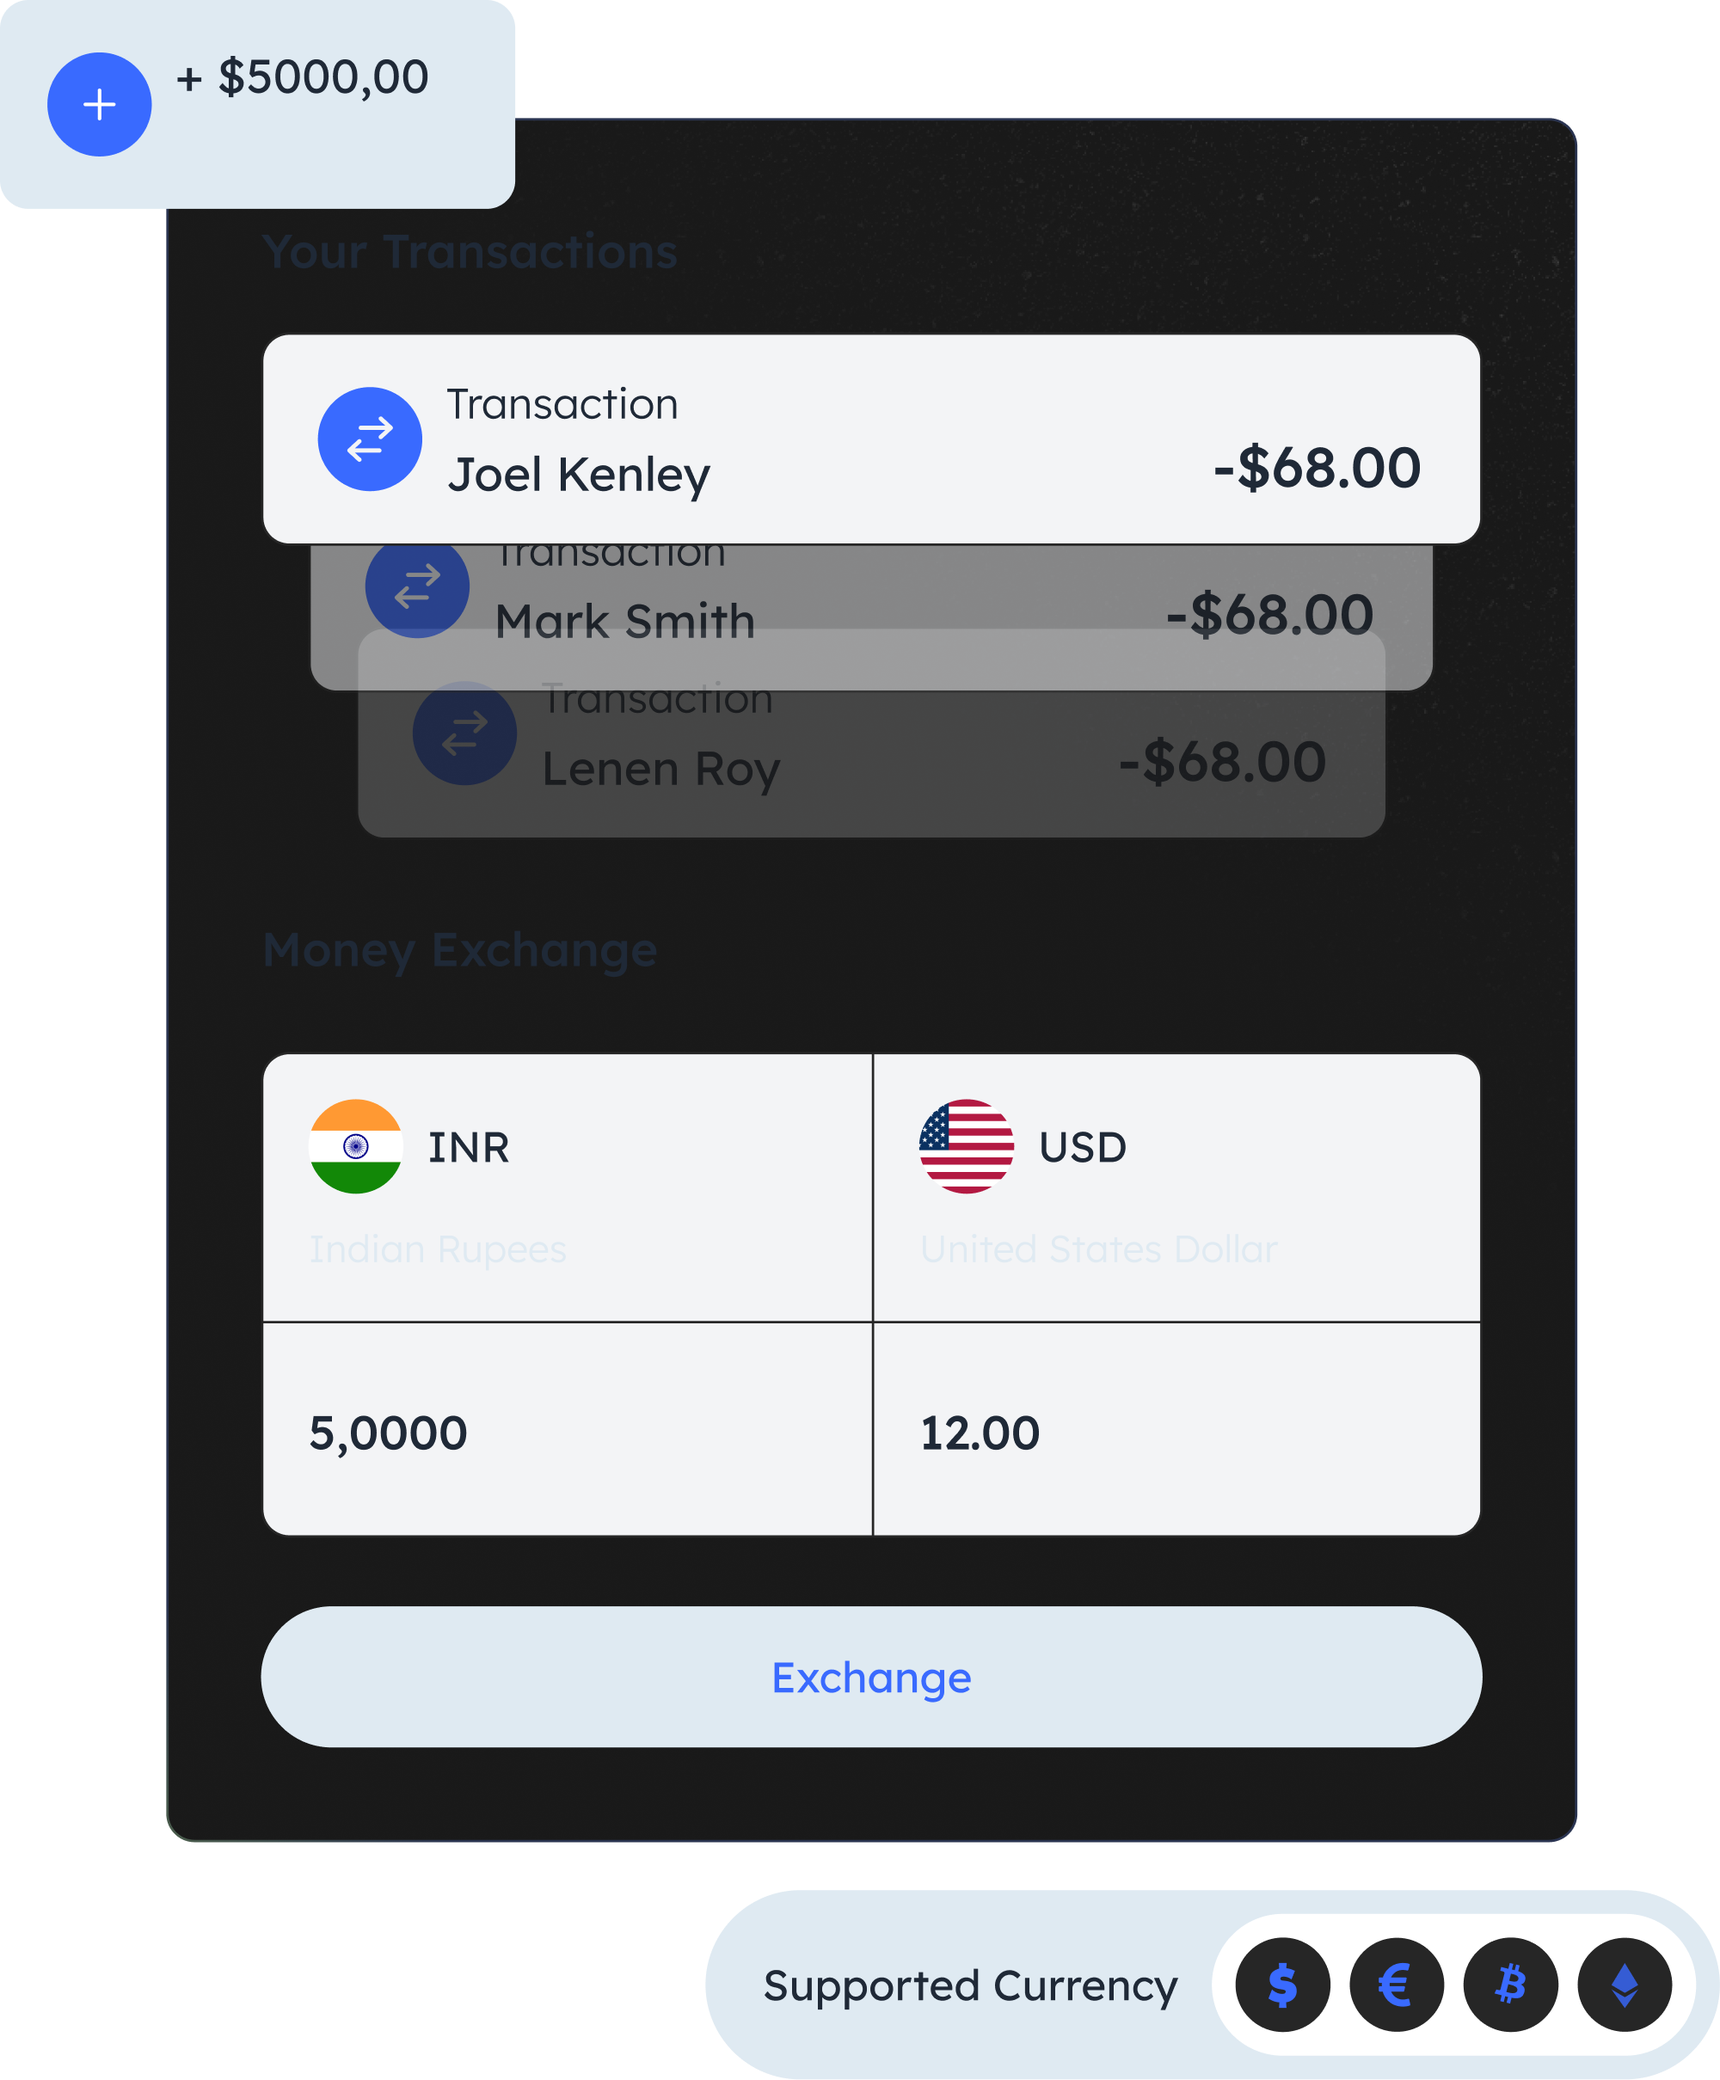
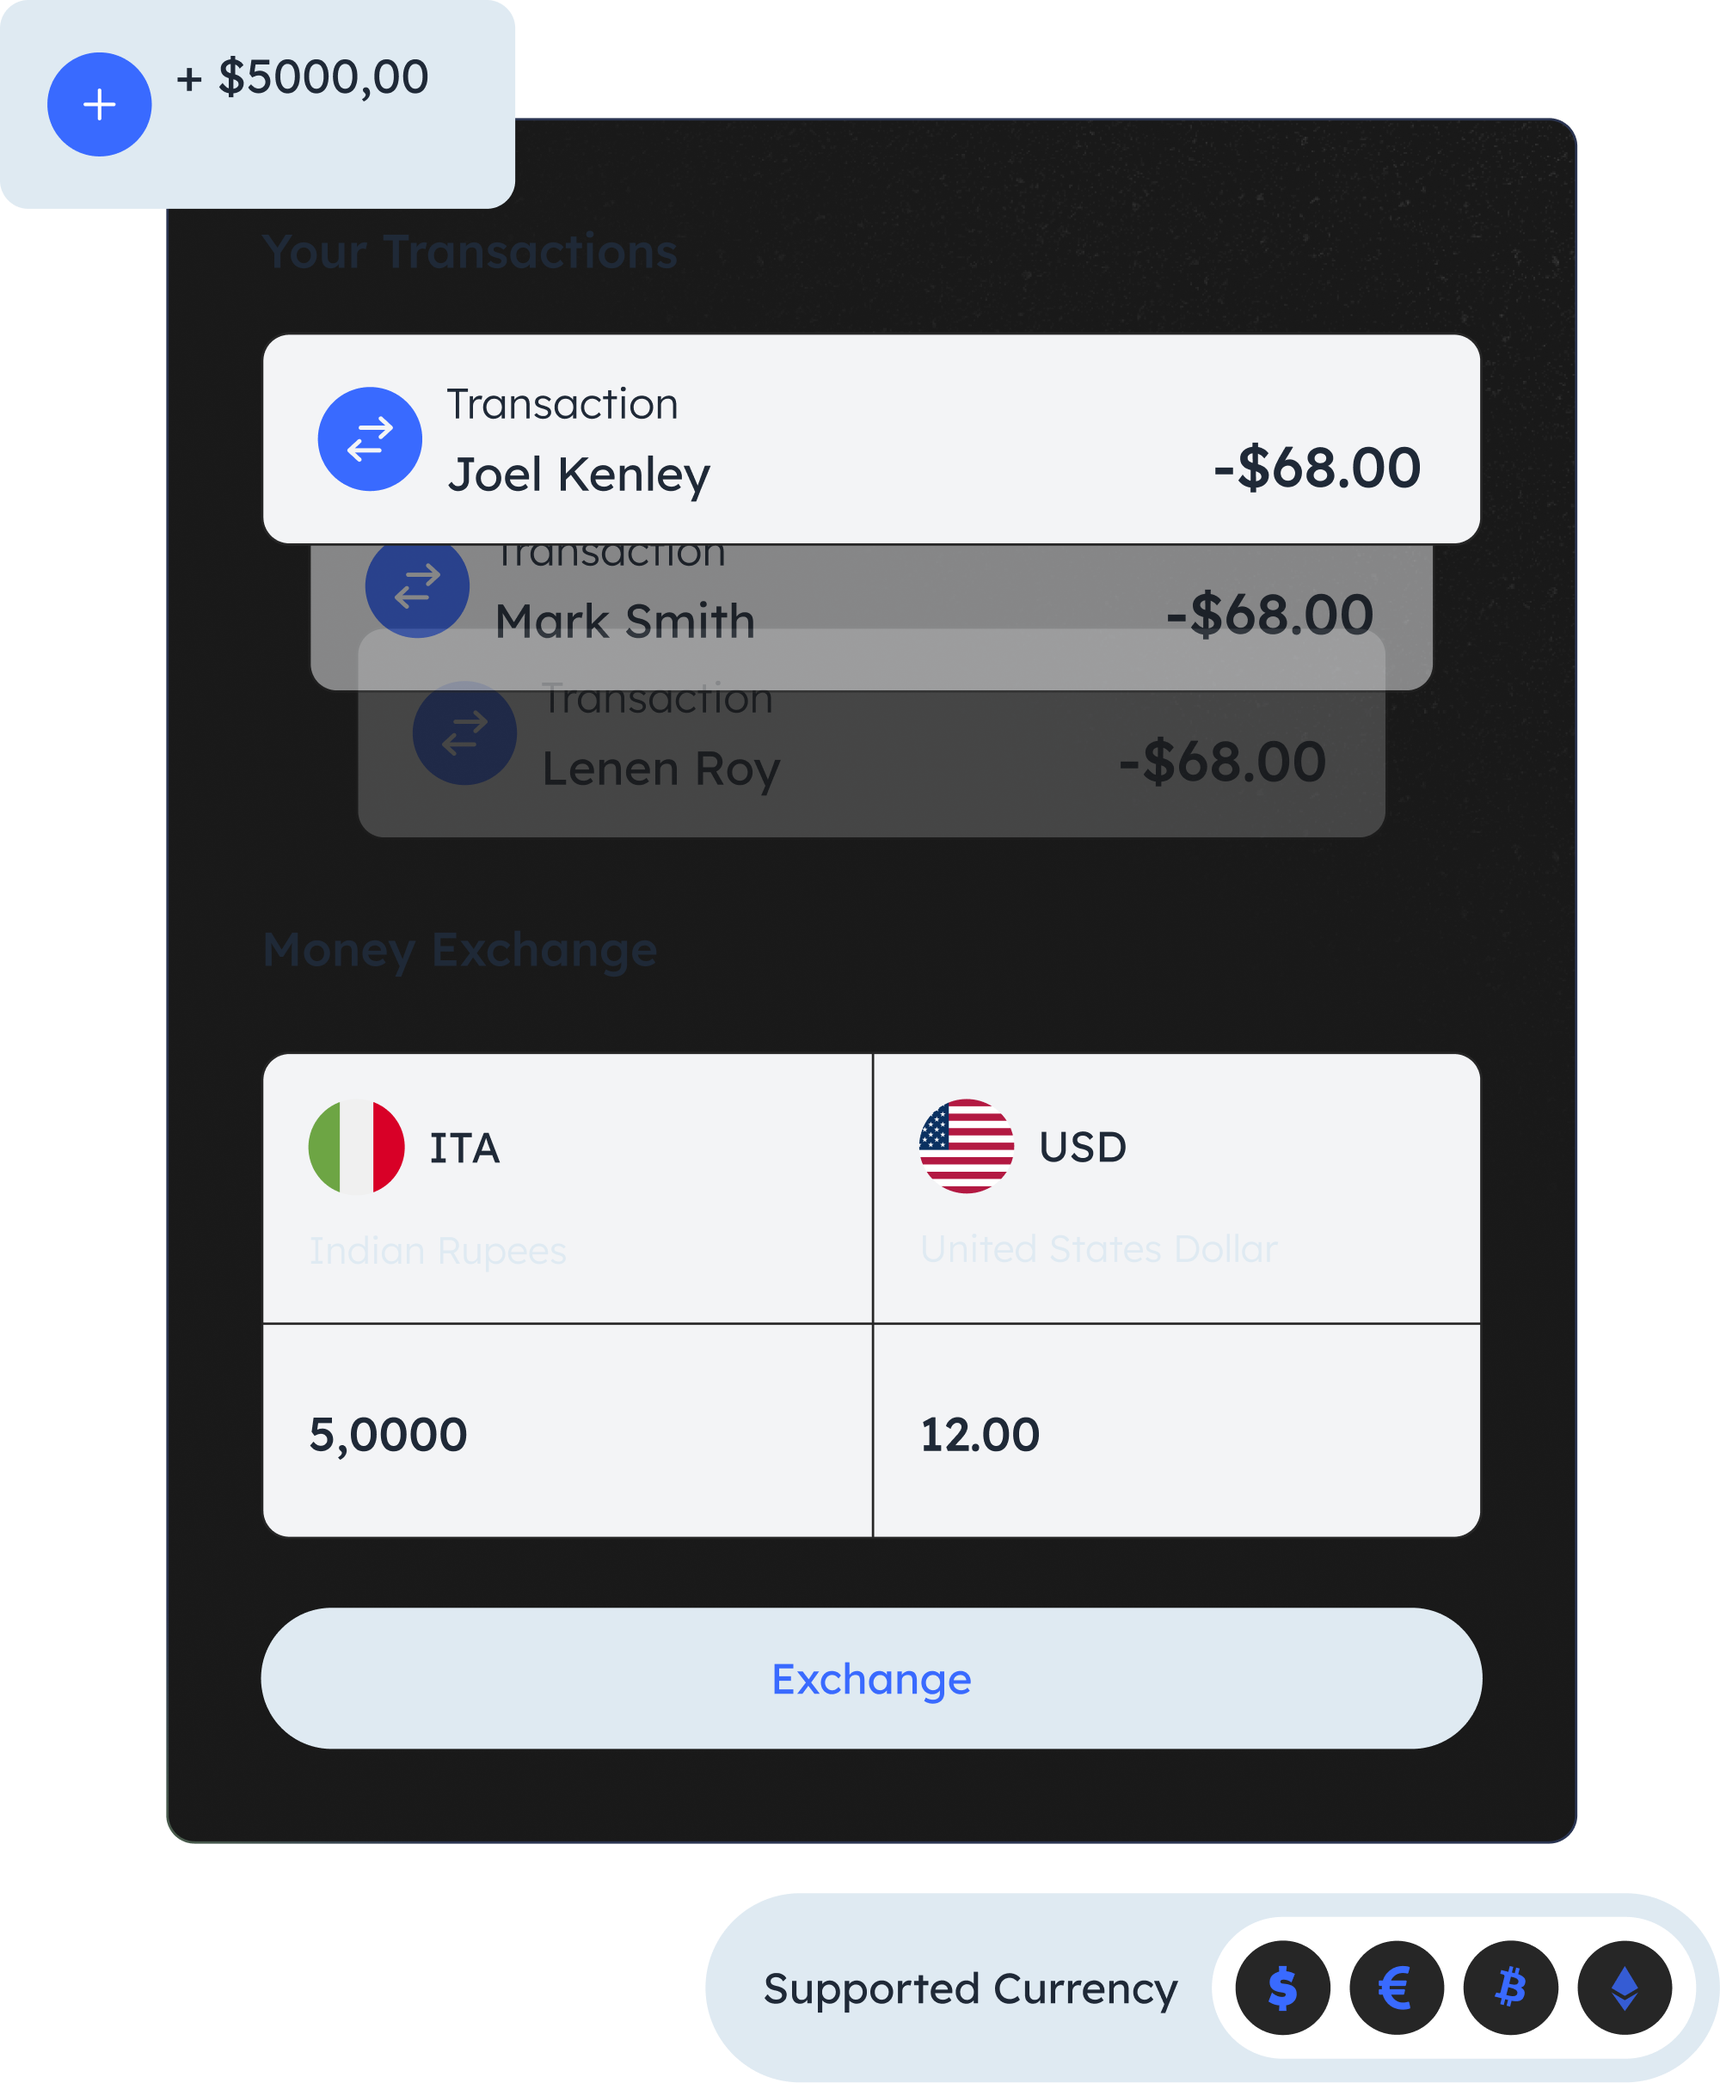
latest changes

Changed region(s): [[0.155, 0.5271, 0.31, 0.5891], [0.527, 0.5271, 0.589, 0.5891], [0.62, 0.5271, 0.651, 0.5581]]

diff --git a/src/components/sections/Products.tsx b/src/components/sections/Products.tsx
@@ -1,8 +1,11 @@
+"use client";
+
+import { useState } from "react";
 import { Button } from "@/components/ui/button";
 import { Briefcase, PiggyBank, Wallet } from "lucide-react";
 
-const Products = () => {
-  const products = [
+const productsData = {
+  Individuals: [
     {
       icon: Wallet,
       title: "Checking Accounts",
@@ -13,12 +16,20 @@ const Products = () => {
       title: "Savings Accounts",
       desc: "Grow your money faster with high-yield savings options and automatic tools.",
     },
+  ],
+  Businesses: [
     {
       icon: Briefcase,
       title: "Business Banking",
       desc: "Scalable solutions for businesses of all sizes to manage finances efficiently.",
     },
-  ];
+  ],
+};
+
+type ProductTab = keyof typeof productsData;
+
+const Products = () => {
+  const [activeTab, setActiveTab] = useState<ProductTab>("Individuals");
 
   return (
     <section className="container mx-auto py-16 md:py-24">
@@ -31,22 +42,40 @@ const Products = () => {
             Discover a range of financial products tailored to your needs.
           </p>
         </div>
-        {/* Placeholder for the Toggle */}
+
+        {/* Toggle */}
         <div className="bg-white p-1 rounded-full border flex">
           <Button
+            type="button"
             variant="ghost"
-            className="rounded-full bg-brand-accent text-white"
+            onClick={() => setActiveTab("Individuals")}
+            className={`rounded-full px-6 ${
+              activeTab === "Individuals"
+                ? "bg-brand-accent text-white"
+                : "text-gray-600"
+            }`}
           >
             For Individuals
           </Button>
-          <Button variant="ghost" className="rounded-full">
+
+          <Button
+            type="button"
+            variant="ghost"
+            onClick={() => setActiveTab("Businesses")}
+            className={`rounded-full px-6 ${
+              activeTab === "Businesses"
+                ? "bg-brand-accent text-white"
+                : "text-gray-600"
+            }`}
+          >
             For Businesses
           </Button>
         </div>
       </div>
 
+      {/* Products Grid */}
       <div className="grid grid-cols-1 md:grid-cols-3 gap-8">
-        {products.map((item, index) => (
+        {productsData[activeTab].map((item, index) => (
           <div
             key={index}
             className="bg-white p-8 rounded-3xl shadow-sm border border-gray-100 flex flex-col items-center text-center space-y-4"

diff --git a/src/components/sections/CTABanner.tsx b/src/components/sections/CTABanner.tsx
@@ -1,10 +1,19 @@
 import { Button } from "@/components/ui/button";
+import Link from "next/link"; // Import Link
 
 const CTABanner = () => {
   return (
     <section className="py-20 container mx-auto px-4">
-<div className="relative bg-[url('/images/cta.png')] bg-cover bg-center bg-no-repeat rounded-[2.5rem] p-8 md:p-16 overflow-hidden flex flex-col lg:flex-row items-center justify-between gap-8 lg:gap-16 text-center lg:text-left">        {/* --- Decorative Dot Pattern (Top Left) --- */}
-        <div className="absolute top-0 left-0 p-4 sm:p-6 opacity-30">
+      {/* Updated container classes:
+        1. Removed direct bg-image classes.
+        2. Added pseudo-element (before:) classes to handle background image and blur.
+           - before:blur-[2px] provides the slight blur.
+           - before:scale-105 ensures blurred edges are clipped cleanly by overflow-hidden.
+           - before:-z-10 places it behind the content.
+      */}
+      <div className="relative rounded-[2.5rem] p-8 md:p-16 overflow-hidden flex flex-col lg:flex-row items-center justify-between gap-8 lg:gap-16 text-center lg:text-left before:absolute before:inset-0 before:-z-10 before:bg-[url('/images/cta.png')] before:bg-cover before:bg-center before:bg-no-repeat before:blur-[2px] before:scale-105">
+
+        <div className="absolute top-0 left-0 p-4 sm:p-6 opacity-30 z-0">
           <svg
             width="100"
             height="100"
@@ -36,6 +45,7 @@ const CTABanner = () => {
         </div>
 
         {/* --- Text Content --- */}
+        {/* z-10 ensures text sits above the blurred background */}
         <div className="relative z-10 max-w-2xl space-y-4">
           <h2 className="text-3xl md:text-5xl font-bold text-white">
             Start your financial journey with{" "}
@@ -48,11 +58,13 @@ const CTABanner = () => {
           </p>
         </div>
 
-        {/* --- Action Button --- */}
+
         <div className="relative z-10 shrink-0">
-          <Button className="bg-brand-accent hover:bg-blue-600 text-white rounded-full px-8 py-6 text-lg shadow-lg transition-transform hover:scale-105">
-            Open Account
-          </Button>
+          <Link href="/login">
+            <Button className="bg-brand-accent hover:bg-blue-600 text-white rounded-full px-8 py-6 text-lg shadow-lg transition-transform hover:scale-105">
+              Open Account
+            </Button>
+          </Link>
         </div>
       </div>
     </section>

diff --git a/src/components/layout/Footer.tsx b/src/components/layout/Footer.tsx
@@ -1,5 +1,7 @@
 import Link from "next/link";
-import { Facebook, Linkedin, Mail, MapPin, Phone, Twitter } from "lucide-react";
+import { Facebook, Linkedin, Mail, Twitter } from "lucide-react";
+import Image from "next/image";
+
 
 const Footer = () => {
   const socialLinks = [
@@ -16,7 +18,7 @@ const Footer = () => {
   ];
 
   const contactInfo = [
-    { icon: Mail, text: "hello@gmail.com" },
+    { icon: Mail, text: "Use the chatbot on the screen" },
     // { icon: Phone, text: "+234 6677 9999" },
     // { icon: MapPin, text: "Somewhere in the World" },
   ];
@@ -25,18 +27,15 @@ const Footer = () => {
     <footer className="bg-brand-light pt-20 pb-10">
       <div className="container mx-auto px-4 flex flex-col items-center">
         {/* --- Logo Section --- */}
-        <div className="flex items-center gap-2 mb-8">
-          <div className="bg-brand-accent text-white p-1.5 rounded-sm flex items-center justify-center">
-            {/* CSS Logo Representation */}
-            <div className="w-5 h-5 relative">
-              <div className="absolute top-0 left-0 w-2.5 h-2.5 border-t-2 border-l-2 border-white"></div>
-              <div className="absolute bottom-0 right-0 w-2.5 h-2.5 border-b-2 border-r-2 border-white"></div>
-              <div className="absolute inset-0 m-auto w-1.5 h-1.5 bg-white rotate-45"></div>
-            </div>
-          </div>
-          <span className="font-bold text-xl text-brand-primary tracking-tight">
-            Montedeiazzu
-          </span>
+        <div className="flex items-center gap-2 p-8 mb-4">
+          <Image
+            src="/images/web.png"
+            alt="Montedeiazzu Desktop Logo"
+            width={220}
+            height={200}
+            className="hidden md:block object-contain"
+            priority
+          />
         </div>
 
         {/* --- Navigation Links --- */}
@@ -62,7 +61,7 @@ const Footer = () => {
               key={index}
               className="flex items-center gap-2 text-brand-primary"
             >
-              <item.icon className="w-5 h-5 text-brand-accent fill-current" />
+              <item.icon className="w-5 h-5 text-brand-accent" />
               <span className="text-sm md:text-base">{item.text}</span>
             </div>
           ))}

diff --git a/src/components/ui/tabs.tsx b/src/components/ui/tabs.tsx
@@ -2,7 +2,6 @@
 
 import * as React from "react"
 import * as TabsPrimitive from "@radix-ui/react-tabs"
-
 import { cn } from "@/lib/utils"
 
 function Tabs({
@@ -26,7 +25,8 @@ function TabsList({
     <TabsPrimitive.List
       data-slot="tabs-list"
       className={cn(
-        "bg-muted text-muted-foreground inline-flex h-9 w-fit items-center justify-center rounded-lg p-[3px]",
+        // ⬇ key changes here
+        "inline-flex w-fit items-center justify-start rounded-lg bg-muted text-muted-foreground p-[3px] overflow-x-auto overflow-y-visible",
         className
       )}
       {...props}
@@ -42,7 +42,12 @@ function TabsTrigger({
     <TabsPrimitive.Trigger
       data-slot="tabs-trigger"
       className={cn(
-        "data-[state=active]:bg-background dark:data-[state=active]:text-foreground focus-visible:border-ring focus-visible:ring-ring/50 focus-visible:outline-ring dark:data-[state=active]:border-input dark:data-[state=active]:bg-input/30 text-foreground dark:text-muted-foreground inline-flex h-[calc(100%-1px)] flex-1 items-center justify-center gap-1.5 rounded-md border border-transparent px-2 py-1 text-sm font-medium whitespace-nowrap transition-[color,box-shadow] focus-visible:ring-[3px] focus-visible:outline-1 disabled:pointer-events-none disabled:opacity-50 data-[state=active]:shadow-sm [&_svg]:pointer-events-none [&_svg]:shrink-0 [&_svg:not([class*='size-'])]:size-4",
+        "inline-flex items-center justify-center gap-1.5 whitespace-nowrap rounded-md border border-transparent px-3 py-1.5 text-sm font-medium transition-[color,box-shadow]",
+        "data-[state=active]:bg-background data-[state=active]:shadow-sm",
+        "focus-visible:outline-none focus-visible:ring-2 focus-visible:ring-ring",
+        "disabled:pointer-events-none disabled:opacity-50",
+        // desktop only stretching
+        "lg:flex-1",
         className
       )}
       {...props}

diff --git a/src/components/sections/Features.tsx b/src/components/sections/Features.tsx
@@ -3,7 +3,6 @@
 import { ArrowUpRight } from "lucide-react";
 import { Tabs, TabsContent, TabsList, TabsTrigger } from "@/components/ui/tabs";
 
-// --- Data Structure for Content ---
 const featuresData = {
   online: [
     {
